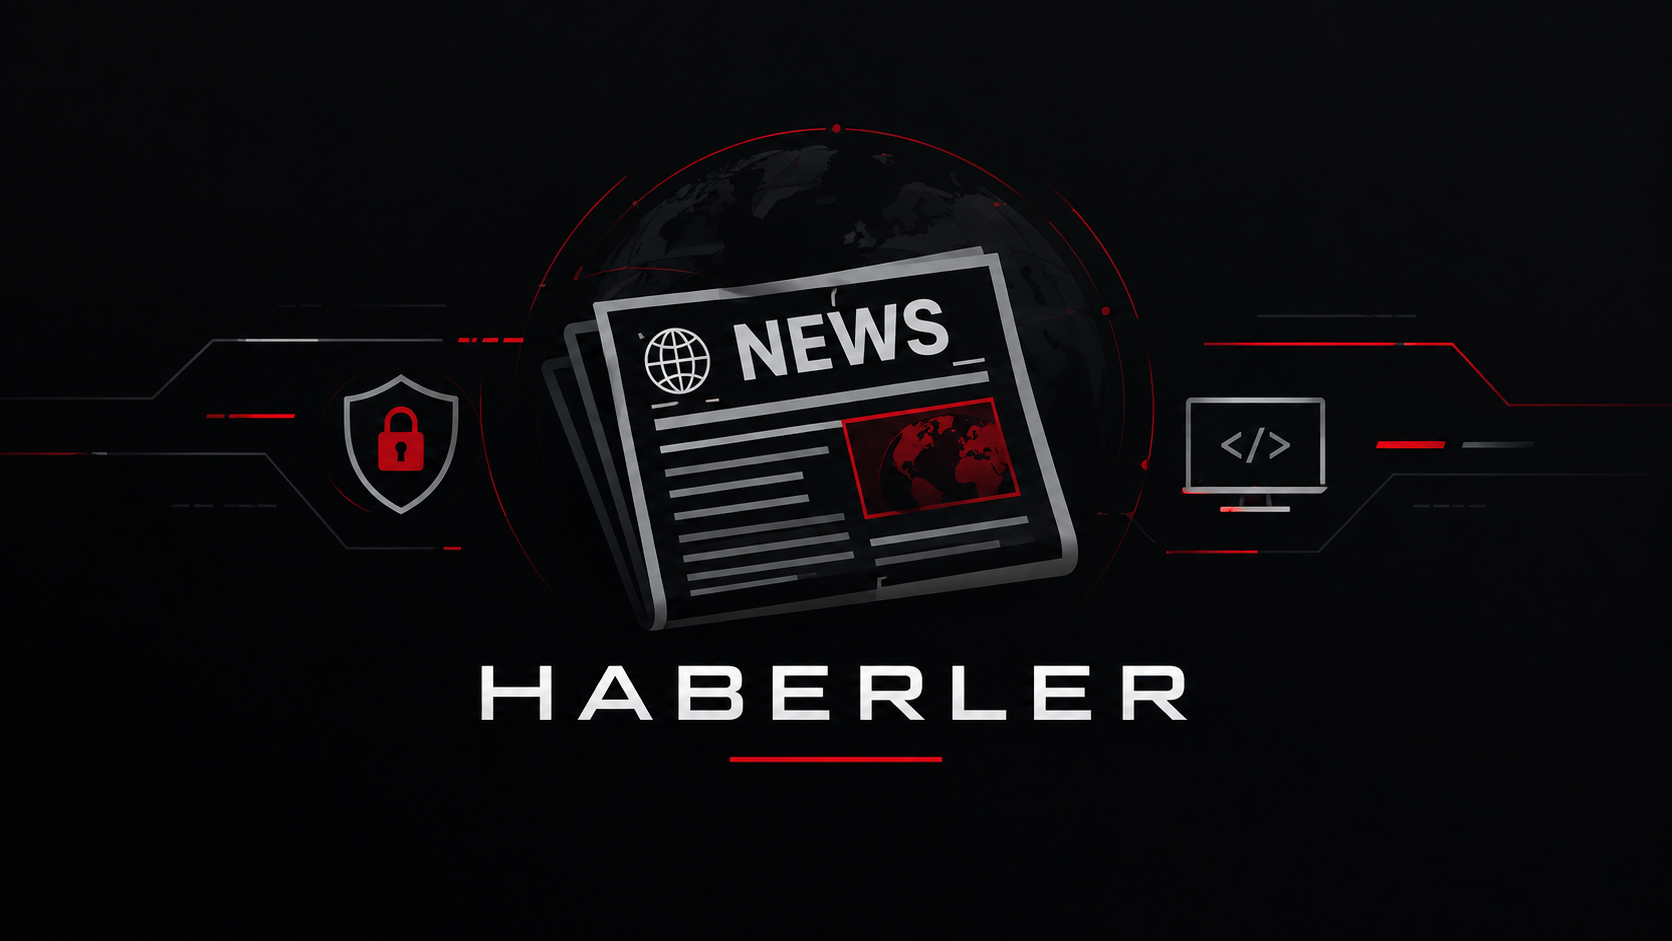
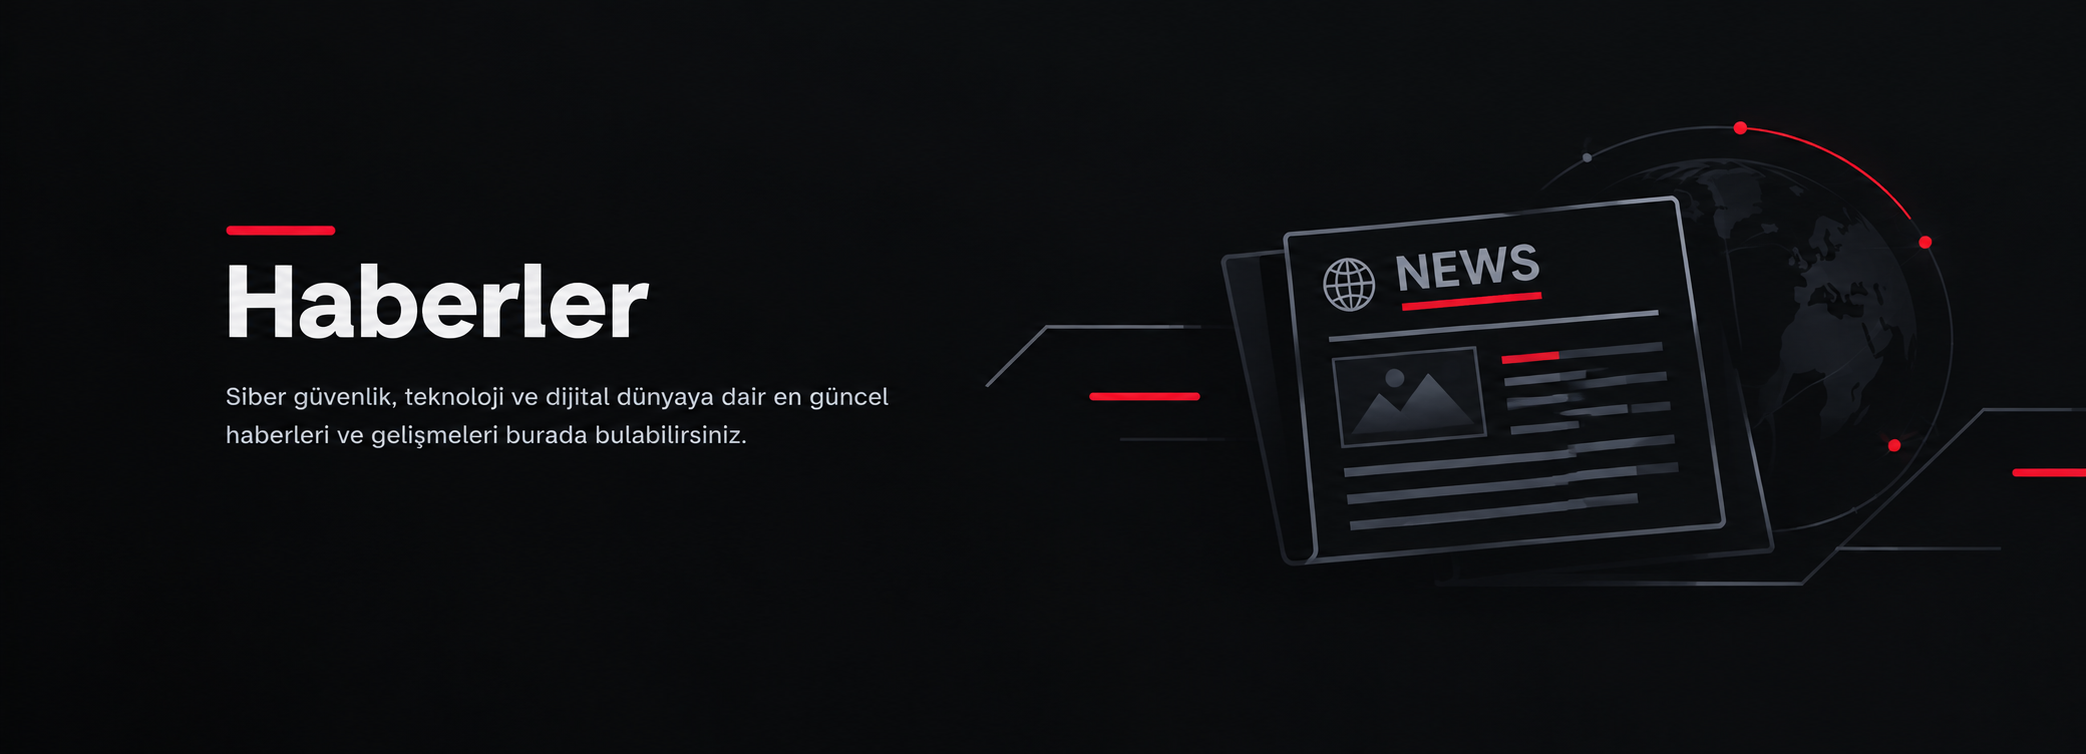
Chirpy dark tema ve sol sidebar entegre edildi

diff --git a/src/styles/global.css b/src/styles/global.css
@@ -1,164 +1,101 @@
-/*
-  The CSS in this style tag is based off of Bear Blog's default CSS.
-  https://github.com/HermanMartinus/bearblog/blob/297026a877bc2ab2b3bdfbd6b9f7961c350917dd/templates/styles/blog/default.css
-  License MIT: https://github.com/HermanMartinus/bearblog/blob/master/LICENSE.md
-*/
-
+/* Chirpy / Dark Security Theme */
 :root {
-	--accent: #2337ff;
-	--accent-dark: #000d8a;
-	--black: 15, 18, 25;
-	--gray: 96, 115, 159;
-	--gray-light: 229, 233, 240;
-	--gray-dark: 34, 41, 57;
-	--gray-gradient: rgba(var(--gray-light), 50%), #fff;
-	--box-shadow:
-		0 2px 6px rgba(var(--gray), 25%), 0 8px 24px rgba(var(--gray), 33%),
-		0 16px 32px rgba(var(--gray), 33%);
+	--bg-primary: #1b1b1e;
+	--bg-secondary: #252529;
+	--bg-sidebar: #1e1e22;
+	--border-color: #323238;
+	--text-primary: #e1e1e6;
+	--text-secondary: #a8a8b3;
+	--accent: #3b82f6;
+	--accent-hover: #60a5fa;
+	--code-bg: #121214;
+}
+
+* {
+	box-sizing: border-box;
+	margin: 0;
+	padding: 0;
 }
 
 body {
-	font-family: var(--font-atkinson);
-	margin: 0;
-	padding: 0;
-	text-align: left;
-	background: linear-gradient(var(--gray-gradient)) no-repeat;
-	background-size: 100% 600px;
-	word-wrap: break-word;
-	overflow-wrap: break-word;
-	color: rgb(var(--gray-dark));
-	font-size: 20px;
+	font-family: -apple-system, BlinkMacSystemFont, "Segoe UI", Roboto, Helvetica, Arial, sans-serif;
+	background-color: var(--bg-primary);
+	color: var(--text-primary);
 	line-height: 1.7;
+	font-size: 16px;
 }
 
-main {
-	width: 720px;
-	max-width: calc(100% - 2em);
-	margin: auto;
-	padding: 3em 1em;
+/* Layout Yapısı */
+.app-container {
+	display: flex;
+	min-height: 100vh;
 }
 
-h1,
-h2,
-h3,
-h4,
-h5,
-h6 {
-	margin: 0 0 0.5rem 0;
-	color: rgb(var(--black));
-	line-height: 1.2;
+.main-content {
+	flex: 1;
+	max-width: 820px;
+	padding: 2.5rem 2rem;
+	margin: 0 auto;
 }
 
-h1 {
-	font-size: 3.052em;
-}
-
-h2 {
-	font-size: 2.441em;
-}
-
-h3 {
-	font-size: 1.953em;
-}
-
-h4 {
-	font-size: 1.563em;
-}
-
-h5 {
-	font-size: 1.25em;
-}
-
-strong,
-b {
+/* Başlıklar */
+h1, h2, h3, h4 {
+	color: #ffffff;
 	font-weight: 700;
+	line-height: 1.3;
+	margin-bottom: 0.75rem;
 }
 
 a {
 	color: var(--accent);
+	text-decoration: none;
+	transition: color 0.2s ease;
 }
 
 a:hover {
-	color: var(--accent);
+	color: var(--accent-hover);
 }
 
-p {
-	margin-bottom: 1em;
-}
-
-.prose p {
-	margin-bottom: 2em;
-}
-
-textarea {
-	width: 100%;
-	font-size: 16px;
-}
-
-input {
-	font-size: 16px;
-}
-
-table {
-	width: 100%;
-}
-
-/* --- GÖRSEL DÜZELTMELERİ --- */
+/* Görseller */
 img {
 	max-width: 100%;
 	height: auto;
-	object-fit: contain; /* Resmi kesmeden kutunun içine sığdırır */
-	box-sizing: border-box;
-	padding: 8px; /* Harflerin yuvarlak köşelere çarpıp kesilmesini engeller */
 	border-radius: 8px;
+	border: 1px solid var(--border-color);
+	object-fit: cover;
 }
 
+/* Kod Blokları */
 code {
-	padding: 2px 5px;
-	background-color: rgb(var(--gray-light));
-	border-radius: 2px;
+	background-color: var(--code-bg);
+	color: #f43f5e;
+	padding: 0.2rem 0.4rem;
+	border-radius: 4px;
+	font-size: 0.9em;
 }
 
 pre {
-	padding: 1.5em;
+	background-color: var(--code-bg) !important;
+	padding: 1.25rem;
 	border-radius: 8px;
+	border: 1px solid var(--border-color);
+	overflow-x: auto;
+	margin: 1.5rem 0;
 }
 
-pre > code {
-	all: unset;
-}
-
-blockquote {
-	border-left: 4px solid var(--accent);
-	padding: 0 0 0 20px;
-	margin: 0;
-	font-size: 1.333em;
-}
-
-hr {
-	border: none;
-	border-top: 1px solid rgb(var(--gray-light));
-}
-
-@media (max-width: 720px) {
-	body {
-		font-size: 18px;
-	}
-	main {
-		padding: 1em;
-	}
-}
-
-.sr-only {
-	border: 0;
+pre code {
+	background-color: transparent;
+	color: inherit;
 	padding: 0;
-	margin: 0;
-	position: absolute !important;
-	height: 1px;
-	width: 1px;
-	overflow: hidden;
-	clip: rect(1px 1px 1px 1px);
-	clip: rect(1px, 1px, 1px, 1px);
-	clip-path: inset(50%);
-	white-space: nowrap;
+}
+
+/* Mobil Uyumlu Grid & Responsive */
+@media (max-width: 850px) {
+	.app-container {
+		flex-direction: column;
+	}
+	.main-content {
+		padding: 1.5rem 1rem;
+		width: 100%;
+	}
 }
